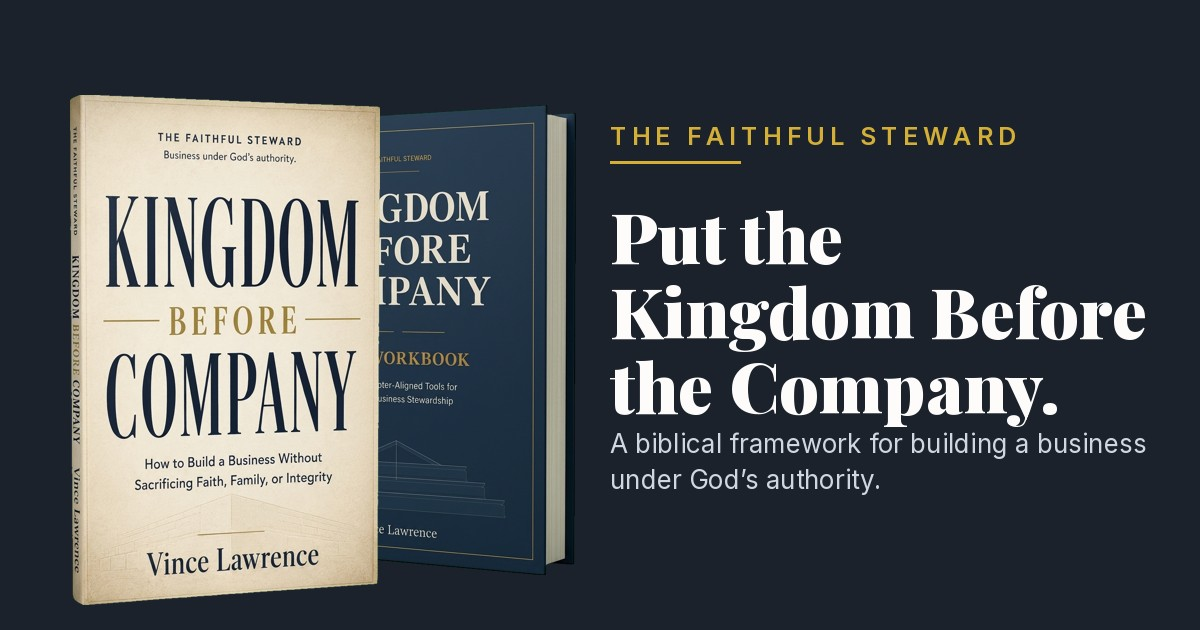
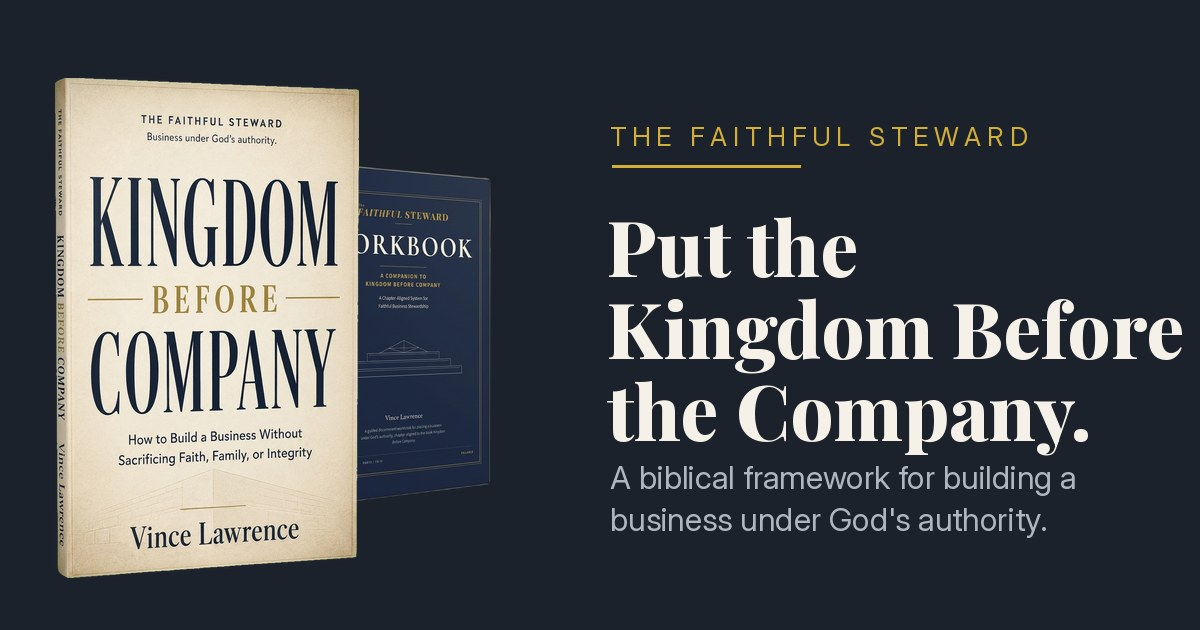
## New workbook cover applied - Turned your new "WORKBOOK / A Companion to Kingdom Before Company" cover into a photorealistic 3D standing-book render, cleanly cut out (transparent, no AI-redrawn text) so it floats on the ivory Workbook page. - Regenerated both social cards: **og-workbook.jpg** (new
Note: Social preview cards only reliably show per-page on Vercel after a deploy (SPA meta is client-rendered). To push, use **Save to GitHub** so Vercel redeploys.

- Next Action Items:
  - **Go Live**: Save to GitHub so Vercel deploys the new cover and share cards to your real domain
  - **Amazon Links**: Give me the paperback and Kindle URLs so the Book buttons switch from "Coming Soon" to live buy links
  - **Real Quotes**: Swap the placeholder early-reader endorsements for genuine ones before launch
  - **Workbook Checkout**: Turn on the direct $29.99 workbook sale with a Stripe payment link and PDF delivery

Changed region(s): [[0.0308, 0.1206, 0.9867, 0.9651]]

diff --git a/src/lib/site.js b/src/lib/site.js
@@ -28,7 +28,7 @@ export const WORKBOOK = {
   title: 'The Faithful Steward Workbook',
   subtitle: 'Thirty chapter-aligned tools for faithful business stewardship',
   price: '$29.99',
-  cover: '/workbook-cover.webp',
+  cover: '/workbook-3d-cover.webp',
   // Set VITE_STRIPE_PAYMENT_LINK in your Vercel env to enable checkout.
   paymentLink: import.meta.env.VITE_STRIPE_PAYMENT_LINK || '',
 }

diff --git a/memory/build_og.py b/memory/build_og.py
@@ -1,0 +1,128 @@
+from PIL import Image, ImageDraw, ImageFont
+
+NAVY = (27, 34, 44)
+GOLD = (212, 175, 55)
+CREAM = (245, 241, 232)
+MUTE = (176, 182, 190)
+
+PLAYFAIR = "/app/.fonts/Playfair.ttf"
+INTER = "/app/.fonts/Inter.ttf"
+
+
+def font(path, size, weight=None):
+    f = ImageFont.truetype(path, size)
+    if weight is not None:
+        try:
+            f.set_variation_by_axes([weight])
+        except Exception:
+            pass
+    return f
+
+
+def tracked_text(draw, xy, text, fnt, fill, tracking=0, anchor_left=True):
+    x, y = xy
+    for ch in text:
+        draw.text((x, y), ch, font=fnt, fill=fill)
+        w = draw.textlength(ch, font=fnt)
+        x += w + tracking
+    return x
+
+
+def wrap(draw, text, fnt, max_w):
+    words = text.split()
+    lines, cur = [], ""
+    for w in words:
+        test = (cur + " " + w).strip()
+        if draw.textlength(test, font=fnt) <= max_w:
+            cur = test
+        else:
+            if cur:
+                lines.append(cur)
+            cur = w
+    if cur:
+        lines.append(cur)
+    return lines
+
+
+# ---------------- OG WORKBOOK ----------------
+def build_workbook():
+    W, H = 1200, 630
+    img = Image.new("RGB", (W, H), NAVY)
+    d = ImageDraw.Draw(img)
+
+    cover = Image.open("/tmp/wb_a_cut.png").convert("RGBA")
+    th = 540
+    tw = int(cover.width * th / cover.height)
+    cover = cover.resize((tw, th), Image.LANCZOS)
+    cx = 70
+    cy = (H - th) // 2
+    img.paste(cover, (cx, cy), cover)
+
+    tx = 460
+    y = 118
+    f_label = font(INTER, 25, 700)
+    tracked_text(d, (tx, y), "THE FAITHFUL STEWARD", f_label, GOLD, tracking=6)
+    d.line([(tx + 2, y + 44), (tx + 185, y + 44)], fill=GOLD, width=3)
+
+    y += 76
+    f_title = font(PLAYFAIR, 90, 800)
+    d.text((tx - 4, y), "The Workbook", font=f_title, fill=CREAM)
+
+    y += 122
+    f_sub = font(INTER, 34, 400)
+    for line in wrap(d, "Turn conviction into the way you actually build and lead.", f_sub, 660):
+        d.text((tx, y), line, font=f_sub, fill=CREAM)
+        y += 44
+
+    y += 26
+    f_meta = font(INTER, 23, 700)
+    tracked_text(d, (tx, y), "$29.99   \u00b7   COMPANION TO KINGDOM BEFORE COMPANY", f_meta, GOLD, tracking=0.5)
+
+    img.save("/app/public/og-workbook.jpg", quality=88)
+    print("og-workbook done")
+
+
+# ---------------- OG HOME ----------------
+def build_home():
+    W, H = 1200, 630
+    img = Image.new("RGB", (W, H), NAVY)
+    d = ImageDraw.Draw(img)
+
+    # workbook behind
+    wb = Image.open("/tmp/wb_a_cut.png").convert("RGBA")
+    wbh = 430
+    wbw = int(wb.width * wbh / wb.height)
+    wb = wb.resize((wbw, wbh), Image.LANCZOS)
+    img.paste(wb, (250, 120), wb)
+
+    # paperback front
+    pb = Image.open("/app/public/book-3d-cover.png").convert("RGBA")
+    pbh = 500
+    pbw = int(pb.width * pbh / pb.height)
+    pb = pb.resize((pbw, pbh), Image.LANCZOS)
+    img.paste(pb, (55, 78), pb)
+
+    tx = 610
+    y = 120
+    f_label = font(INTER, 26, 700)
+    tracked_text(d, (tx, y), "THE FAITHFUL STEWARD", f_label, GOLD, tracking=6)
+    d.line([(tx + 2, y + 46), (tx + 190, y + 46)], fill=GOLD, width=3)
+
+    y += 74
+    f_title = font(PLAYFAIR, 76, 800)
+    for line in ["Put the", "Kingdom Before", "the Company."]:
+        d.text((tx - 3, y), line, font=f_title, fill=CREAM)
+        y += 82
+
+    y += 18
+    f_sub = font(INTER, 32, 400)
+    for line in wrap(d, "A biblical framework for building a business under God's authority.", f_sub, 520):
+        d.text((tx, y), line, font=f_sub, fill=MUTE)
+        y += 42
+
+    img.save("/app/public/og-home.jpg", quality=88)
+    print("og-home done")
+
+
+build_workbook()
+build_home()

diff --git a/memory/PRD.md b/memory/PRD.md
@@ -68,3 +68,9 @@ own GitHub → Vercel. Serverless functions (`/api/*`) run only on Vercel, not i
 - Workbook repositioned as implementation companion ("book teaches and starts... workbook finishes and operationalizes"); added "What you will create" section with 12 named tangible outputs; removed "82-page" claim; retained later-stage tools.
 - Site-wide removal of ALL em/en dashes (unicode, &mdash;/&ndash; entities, \u2014 escapes) across copy, metadata, SEO, and even code comments. Verified zero remaining.
 - Verified by testing agent iteration_4: 100% frontend pass (all 4 result paths incl. override, multi-select exclusivity, no dashes, workbook outputs, zero console errors on 11 routes).
+
+## Update (2026-06 fork) — New workbook cover ("WORKBOOK / A Companion to Kingdom Before Company")
+- User uploaded a new Option A flat cover (large cream "WORKBOOK" + gold "A COMPANION TO KINGDOM BEFORE COMPANY"). Title change from prior "Kingdom Before Company / The Workbook".
+- Generated a photorealistic 3D standing-book render from it, cut to transparent PNG with rembg (no AI text redraw). Saved public/workbook-3d-cover.png + .webp (~52KB). Workbook page hero (Workbook.jsx) uses it; site.js WORKBOOK.cover pointed at /workbook-3d-cover.webp.
+- Regenerated OG cards with PIL (real composited text, navy #1B222C bg, gold #D4AF37, Playfair+Inter): public/og-workbook.jpg (new 3D cover + "The Workbook" + "$29.99 · Companion to Kingdom Before Company") and public/og-home.jpg (paperback front + new workbook behind + "Put the Kingdom Before the Company").
+- OG rebuild script kept at memory/build_og.py. vite build passes; verified workbook page render via screenshot.
